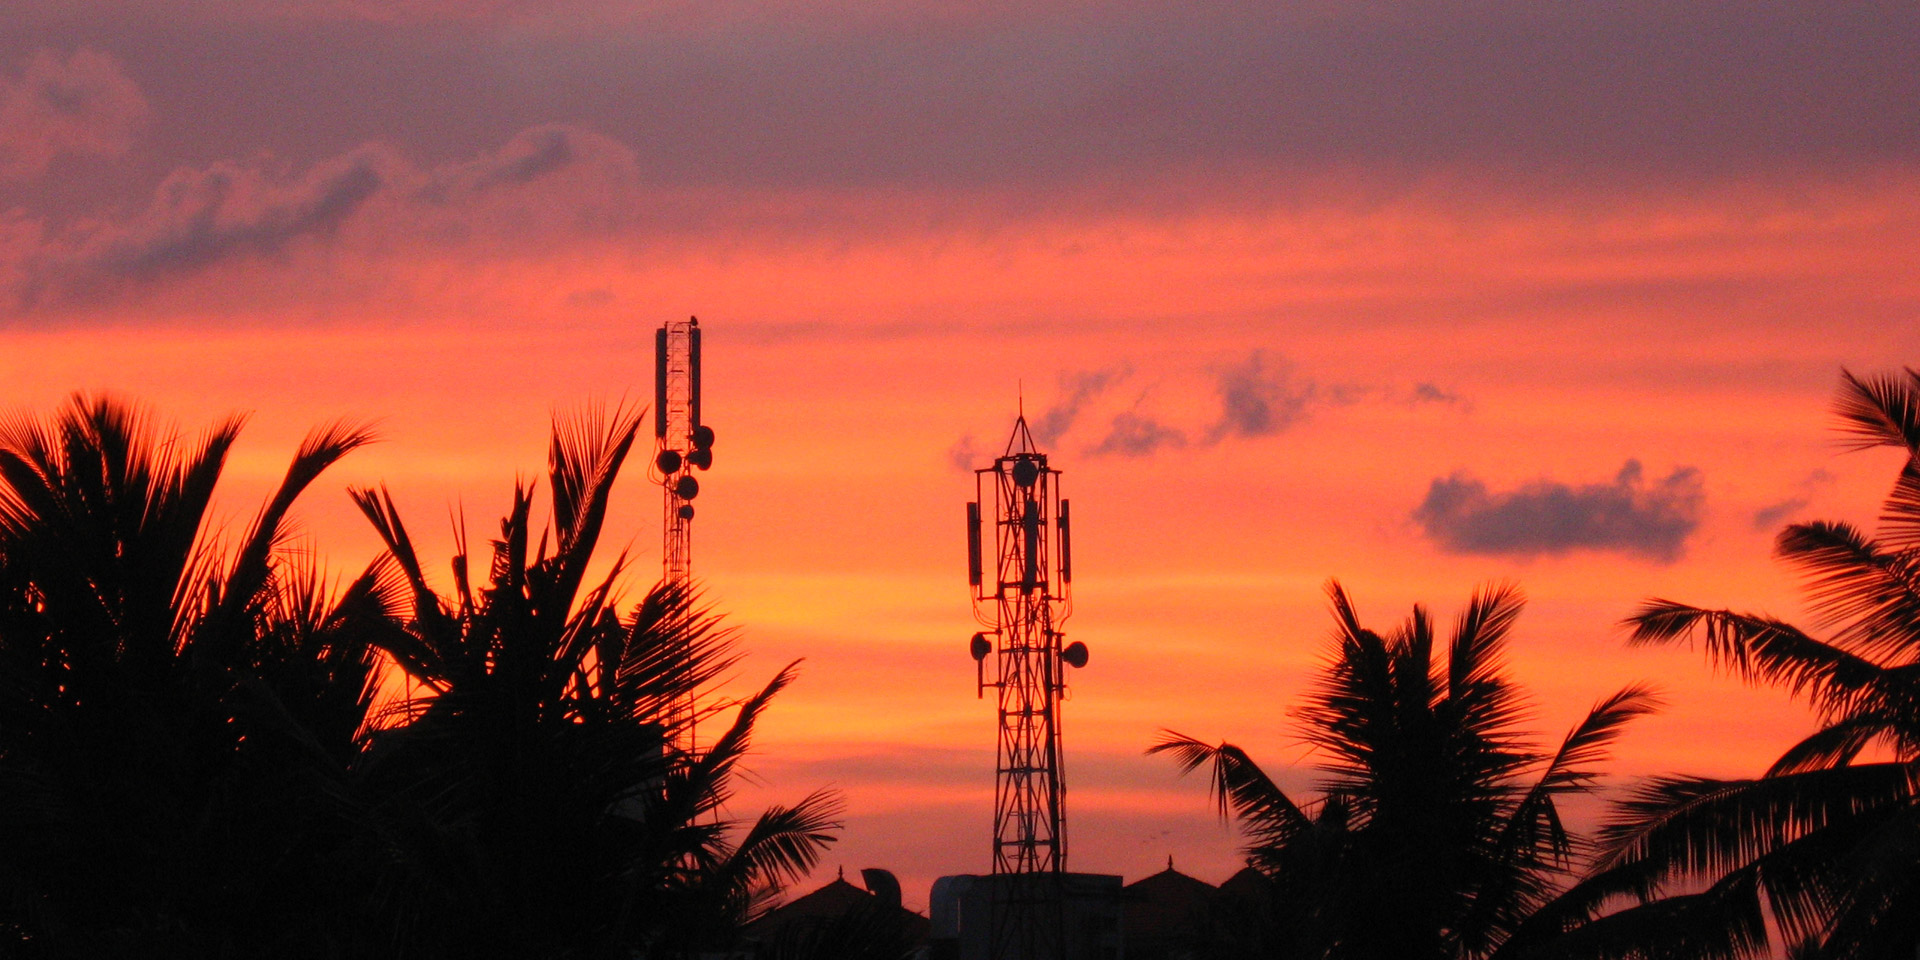
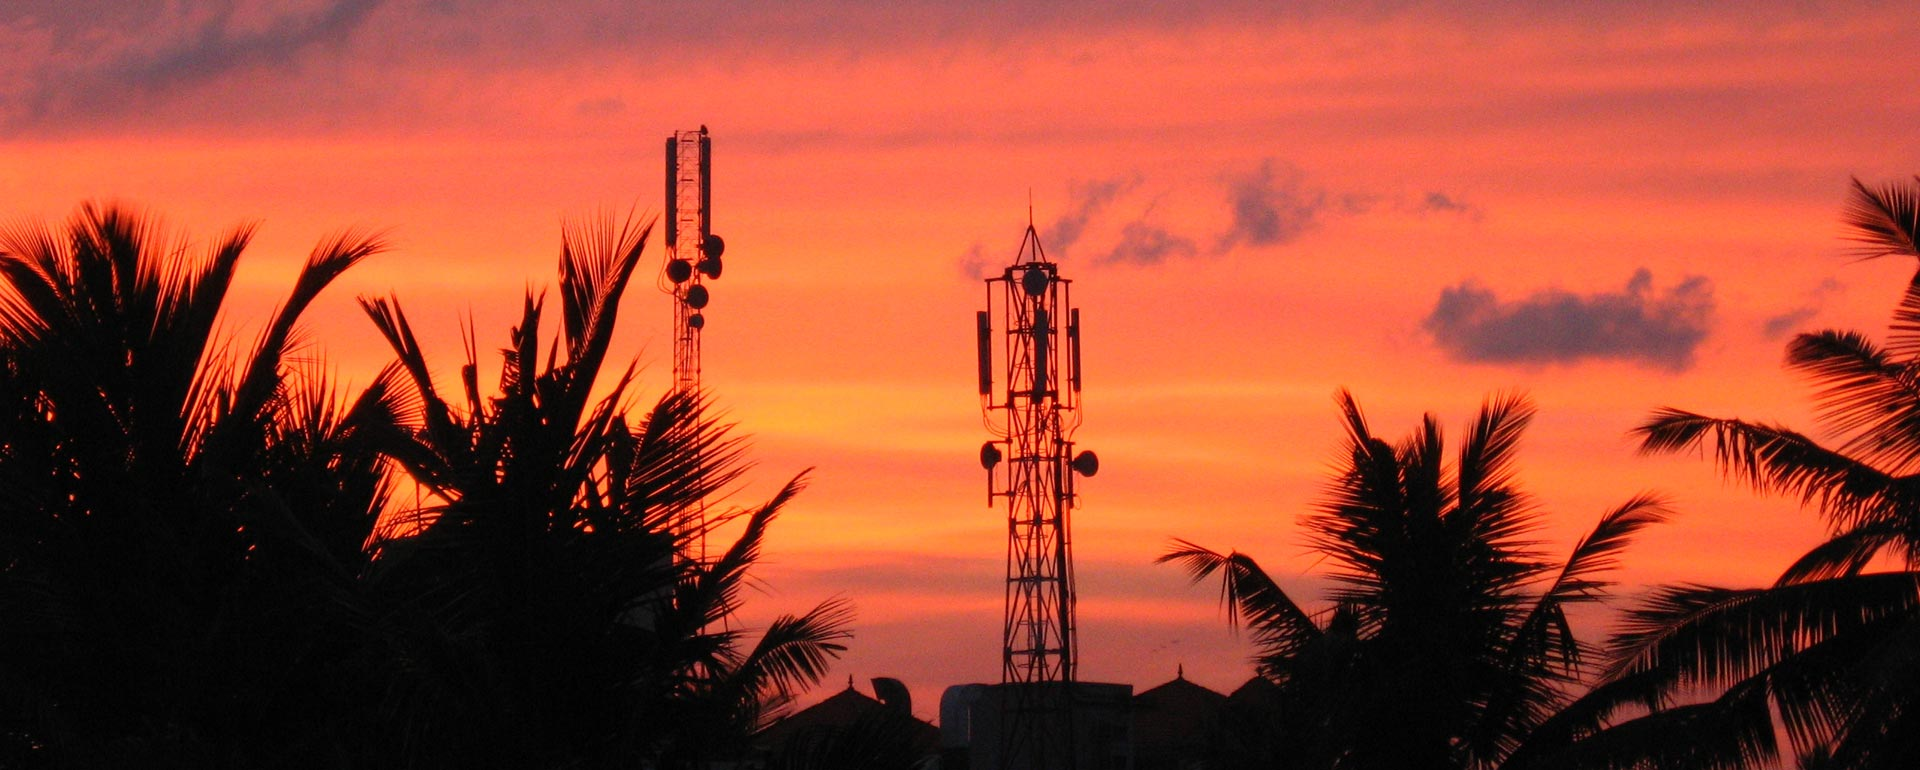
update slider4

diff --git a/www.racktivity.com/themes/landing/layouts/partials/home_page/intro_slider.html b/www.racktivity.com/themes/landing/layouts/partials/home_page/intro_slider.html
@@ -16,27 +16,42 @@
           </div>
           <input type="button" value="{{.Params.slider1_button}}">
           
-          <p><i class="fa fa-quote-left"></i>{{.Params.slider1_text4}}<i class="fa fa-quote-right"></i></p>
+          <!-- <p><i class="fa fa-quote-left"></i>{{.Params.slider1_text4}}<i class="fa fa-quote-right"></i></p> -->
            </div>
       </div>
       <div class="item"> <img src="{{.Params.slider2_pic}}" alt="">
         <div class="carousel-caption">
+          <div class="gray-box">
           <h1>{{.Params.slider2_text1}}</h1>
           <h4>{{.Params.slider2_text2}}</h4>
           <span>{{.Params.slider2_text3}}</span>
+          </div>
           <input type="button" value="{{.Params.slider2_button}}">
-          
-          <p><i class="fa fa-quote-left"></i>{{.Params.slider2_text4}}<i class="fa fa-quote-right"></i></p>
+         <!--  <p><i class="fa fa-quote-left"></i>{{.Params.slider2_text4}}<i class="fa fa-quote-right"></i></p> -->
            </div>
       </div>
       <div class="item"> <img src="{{.Params.slider3_pic}}" alt="">
         <div class="carousel-caption">
+          <div class="gray-box">
           <h1>{{.Params.slider3_text1}}</h1>
           <h4>{{.Params.slider3_text2}}</h4>
           <span>{{.Params.slider3_text3}}</span>
+          </div>
           <input type="button" value="{{.Params.slider3_button}}">
           
-          <p><i class="fa fa-quote-left"></i>{{.Params.slider3_text4}}<i class="fa fa-quote-right"></i></p>
+          <!-- <p><i class="fa fa-quote-left"></i>{{.Params.slider3_text4}}<i class="fa fa-quote-right"></i></p> -->
+           </div>
+      </div>
+      <div class="item"> <img src="{{.Params.slider4_pic}}" alt="">
+        <div class="carousel-caption">
+          <!-- <div class="gray-box">
+          <h1>{{.Params.slider4_text1}}</h1>
+          <h4>{{.Params.slider4_text2}}</h4>
+          <span>{{.Params.slider4_text3}}</span>
+          </div>
+          <input type="button" value="{{.Params.slider3_button}}">
+           -->
+          <!-- <p><i class="fa fa-quote-left"></i>{{.Params.slider3_text4}}<i class="fa fa-quote-right"></i></p> -->
            </div>
       </div>
       <div class="arrow-down">

diff --git a/www.racktivity.com/themes/landing/static/css/custom.css b/www.racktivity.com/themes/landing/static/css/custom.css
@@ -94,10 +94,10 @@ header a { color: #FFF; }
 .footer-shape { display: inline-block; position: absolute; width: 44px; height: 58px; background: #454545; left: -29px; -webkit-transform: skew(-26deg); transform: skew(-26deg); top: 0px; }
 .copy-text { line-height: 58px; color: #7a7a7a; }
 .navbar-default .navbar-collapse, .navbar-default .navbar-form { border: 0; }
-.gray-box{background-color: rgba(0,0,0,0.6);border-radius: 5px;}
-.gray-box h1{padding: 15px;}
-.gray-box h4{padding: 15px;}
-.gray-box span{padding: 15px;}
+.gray-box{background-color: rgba(0,0,0,0.5);border-radius: 3px;}
+.gray-box h1{padding-top: 15px; padding-left:10px;}
+.gray-box h4{padding-left: 15px;}
+.gray-box span{padding-left: 15px;padding-bottom: 10px;}
 .carousel-caption { text-align: left; top: 0; padding-top: 70px; }
 .carousel-caption h1 { color: #21a6df; font-family: 'neotechalt-bold'; text-shadow: none; font-size: 36px; }
 .carousel-caption h4 { font-size: 26px; color: #fff; text-shadow: none; max-width: 690px; line-height: 34px; margin: 15px 0 11px 0; }
@@ -167,7 +167,7 @@ header a { color: #FFF; }
 .carousel-caption h4 { font-size: 18px !important; color: #4c4c4c; text-shadow: none; max-width: 690px; line-height: 34px; margin: 15px 0 11px 0; }
 .carousel-caption span { font-size: 14px !important; color: #333; text-shadow: none; font-family: 'neotechalt-bold'; display: block; }
 .carousel-caption p { font-size: 15px !important; text-shadow: none; font-style: italic; float: left; display: inherit; max-width: 1110px; }
-.carousel-caption input { display: block; border: 0; background: rgba(33, 166, 223, 0.8); padding: 8px 30px; margin: 160px 0 20px 0; -webkit-border-radius: 5px; -moz-border-radius: 5px; border-radius: 5px; font-size: 11px; }
+.carousel-caption input { display: block; border: 0; background: rgba(33, 166, 223, 1); padding: 8px 30px; margin: 160px 0 20px 0; -webkit-border-radius: 5px; -moz-border-radius: 5px; border-radius: 5px; font-size: 11px; }
 .arrow-down { display: none; }
 .main-menu .nav > li > a {padding: 14px 27px !important;}
 }

diff --git a/www.racktivity.com/content/home/intro_slider_box.md b/www.racktivity.com/content/home/intro_slider_box.md
@@ -3,25 +3,32 @@
 title = "intro_slider_box"
 
 
-slider1_pic= "images/slider1-1.jpg"
+slider1_pic= "images/slider1.jpg"
 slider1_text1 = "Racktivity animated data center floor plan"
 slider1_text2 = "Want to find out where the Racktivity products go in your data center?! .. Check out our data center floor plan and find out."
 slider1_text3 = "LEARN ABOUT OUR NEW MODULAR FLEX PDU"
 slider1_button = "WATCH A DEMO"
 slider1_text4 = "This is nog an evolution, this is a revolution! - Berre Janssens, European Datacenter Energy Efficiency Leader at IBM"
 
-slider2_pic= "images/slider2-2.jpg"
+slider2_pic= "images/slider1-1.jpg"
 slider2_text1 = "Did you know?"
 slider2_text2 = "Our EnergySwitch PDUs are equipped with unique features such as 'Electronic Fast Fuse Protection'"
 slider2_text3 = "LEARN ABOUT OUR NEW MODULAR FLEX PDU"
 slider2_button = "WATCH A DEMO"
 slider2_text4 = "Racktivity has a distinctive vision on what value add in power management means - Luc Neysens, CEO at Isabel"
 
-slider3_pic= "images/slider1.jpg"
+slider3_pic= "images/slider2-2.jpg"
 slider3_text1 = "Did you know?"
 slider3_text2 = "Our EnergySwitchss PDUs are equipped with unique features such as 'Electronic Fast Fuse Protection'"
 slider3_text3 = "LEARN ABOUT OUR NEW MODULAR FLEX PDU"
 slider3_button = "WATCH A DEMO"
 slider3_text4 = "Racktivity has a distinctive vision on what value add in power management means - Luc Neysens, CEO at Isabel"
+
+slider4_pic= "images/slider4.jpg"
+slider4_text1 = "Did you know?"
+slider4_text2 = "Our EnergySwitchss PDUs are equipped with unique features such as 'Electronic Fast Fuse Protection'"
+slider4_text3 = "LEARN ABOUT OUR NEW MODULAR FLEX PDU"
+slider4_button = "WATCH A DEMO"
+slider4_text4 = "Racktivity has a distinctive vision on what value add in power management means - Luc Neysens, CEO at Isabel"
 
 +++
